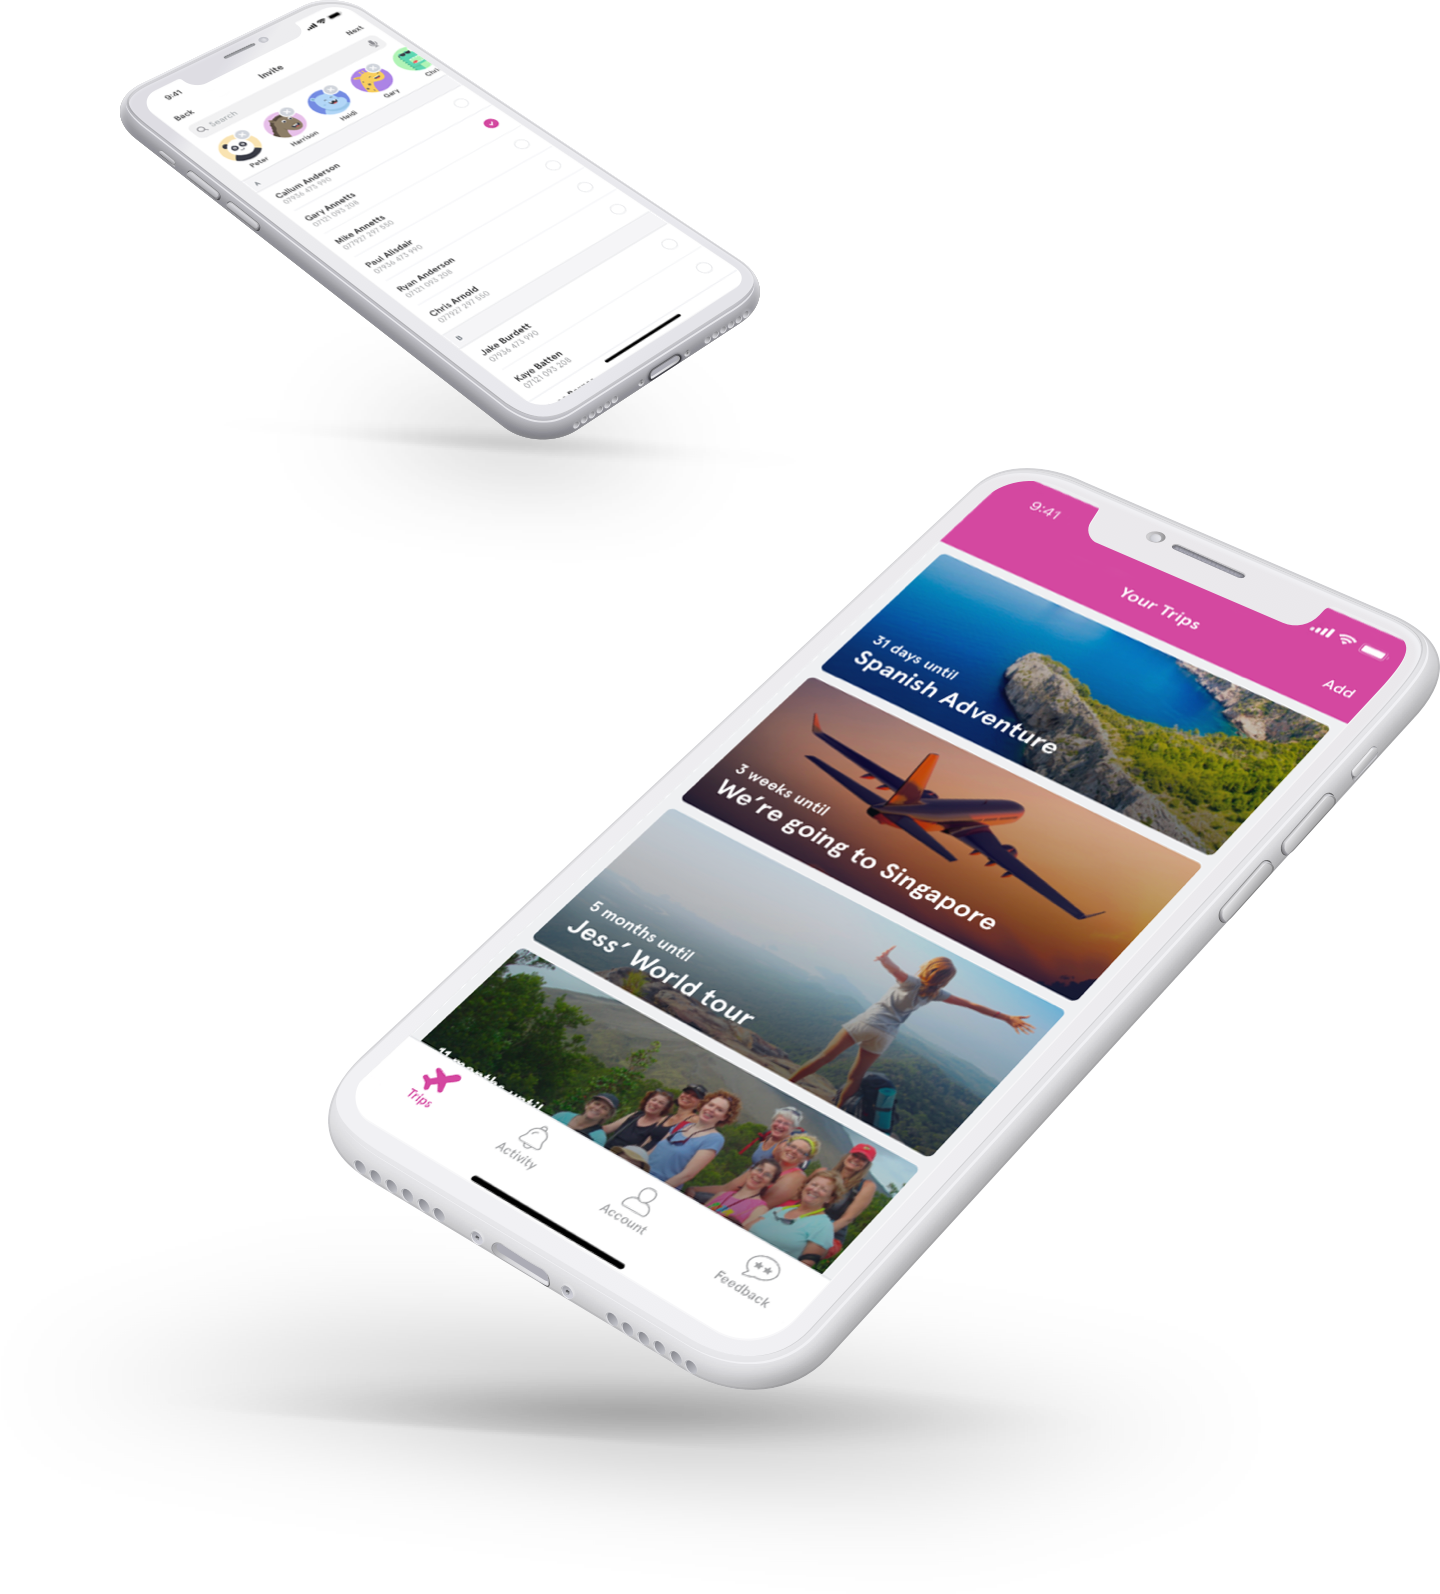
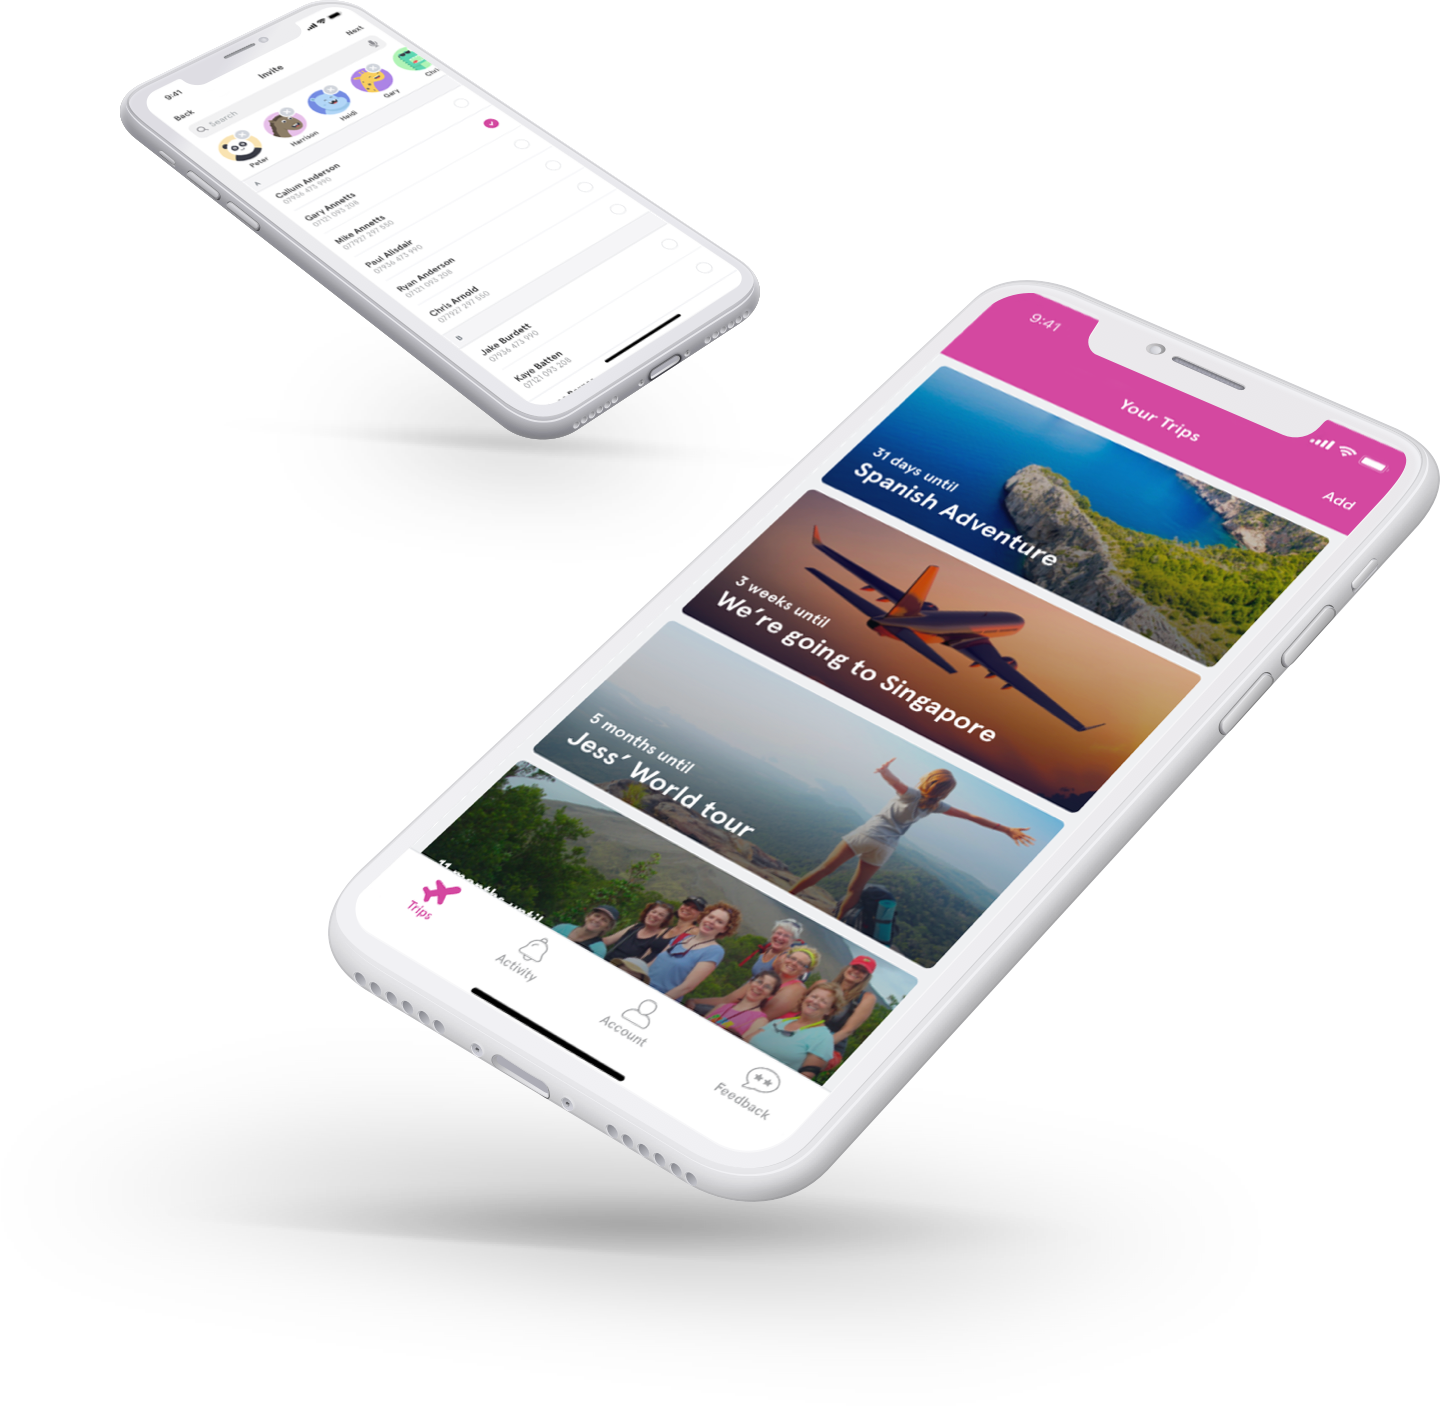
All of the mockups are in position.

Changed region(s): [[0.2188, 0.1835, 1.0, 0.9175], [0.0625, 0.0, 0.5312, 0.3364], [0.3125, 0.0612, 0.375, 0.0917]]

diff --git a/src/assets/styles/base/_case-study.scss b/src/assets/styles/base/_case-study.scss
@@ -324,14 +324,24 @@ $color-purple-section: #ECECF9;
 
     &--heha-6 {
       left: $spacing-10;
-      top: $spacing-10;
-      width: 40%;
+      top: $spacing-13;
+      width: 50%;
+
+      @media screen and (min-width: map-get($breakpoints, "breakpoint-6")) {
+        top: $spacing-10;
+        width: 40%;
+      }
     }
 
     &--heha-7 {
-      bottom: $spacing-5;
+      bottom: $spacing-11;
       right: $spacing-8;
-      width: 86%;
+      width: 96%;
+
+      @media screen and (min-width: map-get($breakpoints, "breakpoint-6")) {
+        bottom: $spacing-5;
+        width: 86%;
+      }
     }
 
     &--heha-8 {
